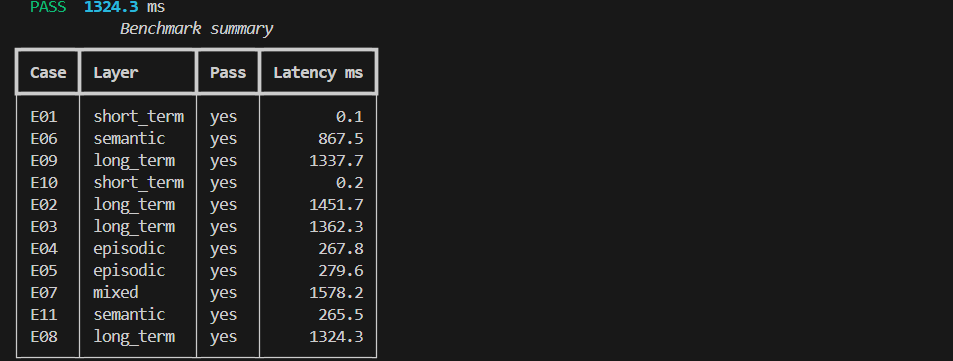
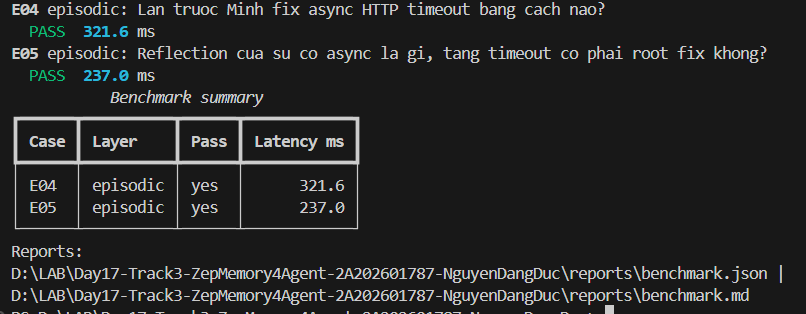
Complete Lab day17

Changed region(s): [[0.0, 0.0, 0.9926, 1.0]]

diff --git a/reports/benchmark.md b/reports/benchmark.md
@@ -5,22 +5,22 @@
 - Cases: **11**
 - Passed: **11/11**
 - Evidence hit rate: **100.0%**
-- Average retrieval latency: **794.1 ms**
+- Average retrieval latency: **674.9 ms**
 - Average token reduction vs full source context: **14.2%**
 
 | Case | Layer | Pass | Latency ms | Retrieved tokens | Token reduction | Missing / Error |
 | --- | --- | --- | ---: | ---: | ---: | --- |
 | E01 | short_term | PASS | 0.1 | 133 | 0.0% |  |
-| E06 | semantic | PASS | 867.5 | 148 | 67.8% |  |
-| E09 | long_term | PASS | 1337.7 | 897 | 0.0% |  |
-| E10 | short_term | PASS | 0.2 | 195 | 0.0% |  |
-| E02 | long_term | PASS | 1451.7 | 1334 | 0.0% |  |
-| E03 | long_term | PASS | 1362.3 | 1330 | 0.0% |  |
-| E04 | episodic | PASS | 267.8 | 233 | 0.0% |  |
-| E05 | episodic | PASS | 279.6 | 252 | 0.0% |  |
-| E07 | mixed | PASS | 1578.2 | 485 | 14.2% |  |
-| E11 | semantic | PASS | 265.5 | 146 | 74.2% |  |
-| E08 | long_term | PASS | 1324.3 | 1327 | 0.0% |  |
+| E06 | semantic | PASS | 317.8 | 148 | 67.8% |  |
+| E09 | long_term | PASS | 1109.1 | 808 | 0.0% |  |
+| E10 | short_term | PASS | 0.4 | 195 | 0.0% |  |
+| E02 | long_term | PASS | 1300.3 | 1362 | 0.0% |  |
+| E03 | long_term | PASS | 1257.1 | 1377 | 0.0% |  |
+| E04 | episodic | PASS | 268.6 | 247 | 0.0% |  |
+| E05 | episodic | PASS | 227.1 | 266 | 0.0% |  |
+| E07 | mixed | PASS | 1403.9 | 485 | 14.2% |  |
+| E11 | semantic | PASS | 229.4 | 146 | 74.2% |  |
+| E08 | long_term | PASS | 1309.9 | 1339 | 0.0% |  |
 
 ## Evidence excerpts
 
@@ -30,11 +30,11 @@
 
 ### E06 - semantic
 
-`EPISODE: {"id":"kb-payment-retry","entity":"Payment API Retry Policy","summary":"For POST /payments, every retryable request MUST send the same Idempotency-Key. Retry only HTTP 429 or transient 5xx errors, use exponential-backoff, and stop after max-3-retries. Marker: PAYMENT-RULE-3.","source":"internal-api-guideline-v3","updated_at":"2026-08-10T00:00:00Z"} metadata= EPISODE: For POST /payments, every retryable request MUST send the same Idempotency-Key. Retry only HTTP 429 or transient 5xx errors, use exponential-backoff, and stop after max-3-retries. Marker: PAYMENT-RULE-3. metadata=`
+`EPISODE: For POST /payments, every retryable request MUST send the same Idempotency-Key. Retry only HTTP 429 or transient 5xx errors, use exponential-backoff, and stop after max-3-retries. Marker: PAYMENT-RULE-3. metadata= EPISODE: {"id":"kb-payment-retry","entity":"Payment API Retry Policy","summary":"For POST /payments, every retryable request MUST send the same Idempotency-Key. Retry only HTTP 429 or transient 5xx errors, use exponential-backoff, and stop after max-3-retries. Marker: PAYMENT-RULE-3.","source":"internal-api-guideline-v3","updated_at":"2026-08-10T00:00:00Z"} metadata=`
 
 ### E09 - long_term
 
-`<USER_SUMMARY> The user is working on the LOTUS-88 project, which prioritizes Java and Spring Boot for backend development. The user does not use Python for backend development. </USER_SUMMARY>  <EPISODES> Episodes are source message or document excerpts shown in selection order.   - Created At: 2026-08-01 11:00:20     Source: message     Content: Lab Assistant (assistant): Da hieu: LOTUS-88, Java + Spring Boot cho backend examples.   - Created At: 2026-08-01 11:00:00     Source: message     Content: [user] {   "user_id": "lan-lab17",   "first_name": "Lan",   "last_name": "Tran",   "user_alias": "Lan Tran" }: Toi la Lan. Du an cua toi la LOTUS-88. Toi uu tien Java va Spring Boot, va khong du`
+`<USER_SUMMARY> Lan's project is LOTUS-88. They prioritize Java and Spring Boot for backend development, and do not use Python in this context. </USER_SUMMARY>  <EPISODES> Episodes are source message or document excerpts shown in selection order.   - Created At: 2026-08-01 11:00:20     Source: message     Content: Lab Assistant (assistant): Da hieu: LOTUS-88, Java + Spring Boot cho backend examples.   - Created At: 2026-08-01 11:00:00     Source: message     Content: [user] {   "user_id": "lan-lab17",   "first_name": "Lan",   "last_name": "Tran",   "user_alias": "Lan Tran" }: Toi la Lan. Du an cua toi la LOTUS-88. Toi uu tien Java va Spring Boot, va khong dung Python trong vi du backend. </EP`
 
 ### E10 - short_term
 
@@ -42,23 +42,23 @@
 
 ### E02 - long_term
 
-`<USER_SUMMARY> Minh Nguyen is working on debugging async HTTP, specifically addressing connection churn with ClientSession and concurrency set to 20. For the company project BLUEBIRD-42, the backend must use TypeScript with NestJS, and Python is not to be used for this project. Minh is also working on a personal project named ORCHID-27.  Minh Nguyen prefers Python for personal projects like ORCHID-27 but requires TypeScript with NestJS for the company project BLUEBIRD-42 backend. They prefer reusing an aiohttp ClientSession with concurrency set to 20 for efficiency, identifying connection churn as the main issue rather than timeout thresholds. </USER_SUMMARY>  <EPISODES> Episodes are source `
+`<USER_SUMMARY> Minh Nguyen is working on a company project called BLUEBIRD-42, which requires the use of TypeScript and NestJS for the backend. Minh is also working on a personal project identified as ORCHID-27, for which the user continues to use Python.  Minh prefers Python for personal projects and explicitly dislikes Java. For the BLUEBIRD-42 project, the user has established a constraint to avoid using Python for backend development. When learning, Minh focuses on async/await concepts and often confuses coroutines with Tasks.  When explaining code, use short examples. When explaining async/await, coroutines, and Tasks, present the information using a timeline format. </USER_SUMMARY>  <E`
 
 ### E03 - long_term
 
-`<USER_SUMMARY> Minh Nguyen is working on debugging async HTTP, specifically addressing connection churn with ClientSession and concurrency set to 20. For the company project BLUEBIRD-42, the backend must use TypeScript with NestJS, and Python is not to be used for this project. Minh is also working on a personal project named ORCHID-27.  Minh Nguyen prefers Python for personal projects like ORCHID-27 but requires TypeScript with NestJS for the company project BLUEBIRD-42 backend. They prefer reusing an aiohttp ClientSession with concurrency set to 20 for efficiency, identifying connection churn as the main issue rather than timeout thresholds. </USER_SUMMARY>  <EPISODES> Episodes are source `
+`<USER_SUMMARY> Minh Nguyen is working on a company project called BLUEBIRD-42, which requires the use of TypeScript and NestJS for the backend. Minh is also working on a personal project identified as ORCHID-27, for which the user continues to use Python.  Minh prefers Python for personal projects and explicitly dislikes Java. For the BLUEBIRD-42 project, the user has established a constraint to avoid using Python for backend development. When learning, Minh focuses on async/await concepts and often confuses coroutines with Tasks.  When explaining code, use short examples. When explaining async/await, coroutines, and Tasks, present the information using a timeline format. </USER_SUMMARY>  <E`
 
 ### E04 - episodic
 
-`EPISODE: Ten du an ca nhan cua toi la ORCHID-27. Toi thich Python va khong thich Java. Khi giai thich code, hay dung vi du ngan. EPISODE: Toi dang hoc async/await va hay nham coroutine voi Task. Neu sau nay gap chu de nay, hay giai thich bang timeline. EPISODE: TODO: hoan thanh benchmark report truoc thu Sau luc 16:00. Day la open loop LAB-REPORT-1600. EPISODE: Hom nay toi debug async HTTP. Toi da thu tang timeout len 60s nhung van fail. EPISODE: Cach hieu qua la reuse aiohttp ClientSession va dat concurrency=20. Reflection: loi chinh la connection churn, khong phai timeout threshold. Ma su co ASYNC-FIX-20. EPISODE: Da ghi nhan trajectory: increase timeout khong hieu qua; ClientSession + con`
+`EPISODE: Cap nhat moi: voi du an cong ty BLUEBIRD-42, backend bat buoc dung TypeScript voi NestJS; khong dung Python cho backend du an nay. Preference Python van dung cho demo ca nhan ORCHI EPISODE: Backend cua BLUEBIRD-42 bat buoc dung stack gi? EPISODE: Ten du an ca nhan cua toi la ORCHID-27. Toi thich Python va khong thich Java. Khi giai thich code, hay dung vi du ngan. EPISODE: Toi dang hoc async/await va hay nham coroutine voi Task. Neu sau nay gap chu de nay, hay giai thich bang timeline. EPISODE: TODO: hoan thanh benchmark report truoc thu Sau luc 16:00. Day la open loop LAB-REPORT-1600. EPISODE: Hom nay toi debug async HTTP. Toi da thu tang timeout len 60s nhung van fail. EPISODE: Ca`
 
 ### E05 - episodic
 
-`EPISODE: Ten du an ca nhan cua toi la ORCHID-27. Toi thich Python va khong thich Java. Khi giai thich code, hay dung vi du ngan. EPISODE: Toi dang hoc async/await va hay nham coroutine voi Task. Neu sau nay gap chu de nay, hay giai thich bang timeline. EPISODE: TODO: hoan thanh benchmark report truoc thu Sau luc 16:00. Day la open loop LAB-REPORT-1600. EPISODE: Hom nay toi debug async HTTP. Toi da thu tang timeout len 60s nhung van fail. EPISODE: Hay kiem tra connection pool, lifecycle cua client va concurrency. EPISODE: Cach hieu qua la reuse aiohttp ClientSession va dat concurrency=20. Reflection: loi chinh la connection churn, khong phai timeout threshold. Ma su co ASYNC-FIX-20. EPISODE: `
+`EPISODE: Cap nhat moi: voi du an cong ty BLUEBIRD-42, backend bat buoc dung TypeScript voi NestJS; khong dung Python cho backend du an nay. Preference Python van dung cho demo ca nhan ORCHI EPISODE: Backend cua BLUEBIRD-42 bat buoc dung stack gi? EPISODE: Ten du an ca nhan cua toi la ORCHID-27. Toi thich Python va khong thich Java. Khi giai thich code, hay dung vi du ngan. EPISODE: Toi dang hoc async/await va hay nham coroutine voi Task. Neu sau nay gap chu de nay, hay giai thich bang timeline. EPISODE: TODO: hoan thanh benchmark report truoc thu Sau luc 16:00. Day la open loop LAB-REPORT-1600. EPISODE: Hom nay toi debug async HTTP. Toi da thu tang timeout len 60s nhung van fail. EPISODE: Ha`
 
 ### E07 - mixed
 
-`<LONG_TERM> <USER_SUMMARY> Minh Nguyen is working on debugging async HTTP, specifically addressing connection churn with ClientSession and concurrency set to 20. For the company project BLUEBIRD-42, the backend must use TypeScript with NestJS, and Python is not to be used for this project. Minh is also working on a personal project named ORCHID-27.  Minh Nguyen prefers Python for personal projects like ORCHID-27 but requires TypeScript with NestJS for the company project BLUEBIRD-42 backend. They prefer reusing an aiohttp ClientSession with concurrency set to 20 for efficiency, identifying connection churn as the main issue rather than timeout thresholds. </USER_SUMMARY>  <EPISODES> Episodes`
+`<LONG_TERM> <USER_SUMMARY> Minh Nguyen is working on a company project called BLUEBIRD-42, which requires the use of TypeScript and NestJS for the backend. Minh is also working on a personal project identified as ORCHID-27, for which the user continues to use Python.  Minh prefers Python for personal projects and explicitly dislikes Java. For the BLUEBIRD-42 project, the user has established a constraint to avoid using Python for backend development. When learning, Minh focuses on async/await concepts and often confuses coroutines with Tasks.  When explaining code, use short examples. When explaining async/await, coroutines, and Tasks, present the information using a timeline format. </USER_`
 
 ### E11 - semantic
 
@@ -66,4 +66,4 @@
 
 ### E08 - long_term
 
-`<USER_SUMMARY> Minh Nguyen is working on debugging async HTTP, specifically addressing connection churn with ClientSession and concurrency set to 20. For the company project BLUEBIRD-42, the backend must use TypeScript with NestJS, and Python is not to be used for this project. Minh is also working on a personal project named ORCHID-27.  Minh Nguyen prefers Python for personal projects like ORCHID-27 but requires TypeScript with NestJS for the company project BLUEBIRD-42 backend. They prefer reusing an aiohttp ClientSession with concurrency set to 20 for efficiency, identifying connection churn as the main issue rather than timeout thresholds. </USER_SUMMARY>  <EPISODES> Episodes are source `
+`<USER_SUMMARY> Minh Nguyen is working on a company project called BLUEBIRD-42, which requires the use of TypeScript and NestJS for the backend. Minh is also working on a personal project identified as ORCHID-27, for which the user continues to use Python.  Minh prefers Python for personal projects and explicitly dislikes Java. For the BLUEBIRD-42 project, the user has established a constraint to avoid using Python for backend development. When learning, Minh focuses on async/await concepts and often confuses coroutines with Tasks.  When explaining code, use short examples. When explaining async/await, coroutines, and Tasks, present the information using a timeline format. </USER_SUMMARY>  <E`
